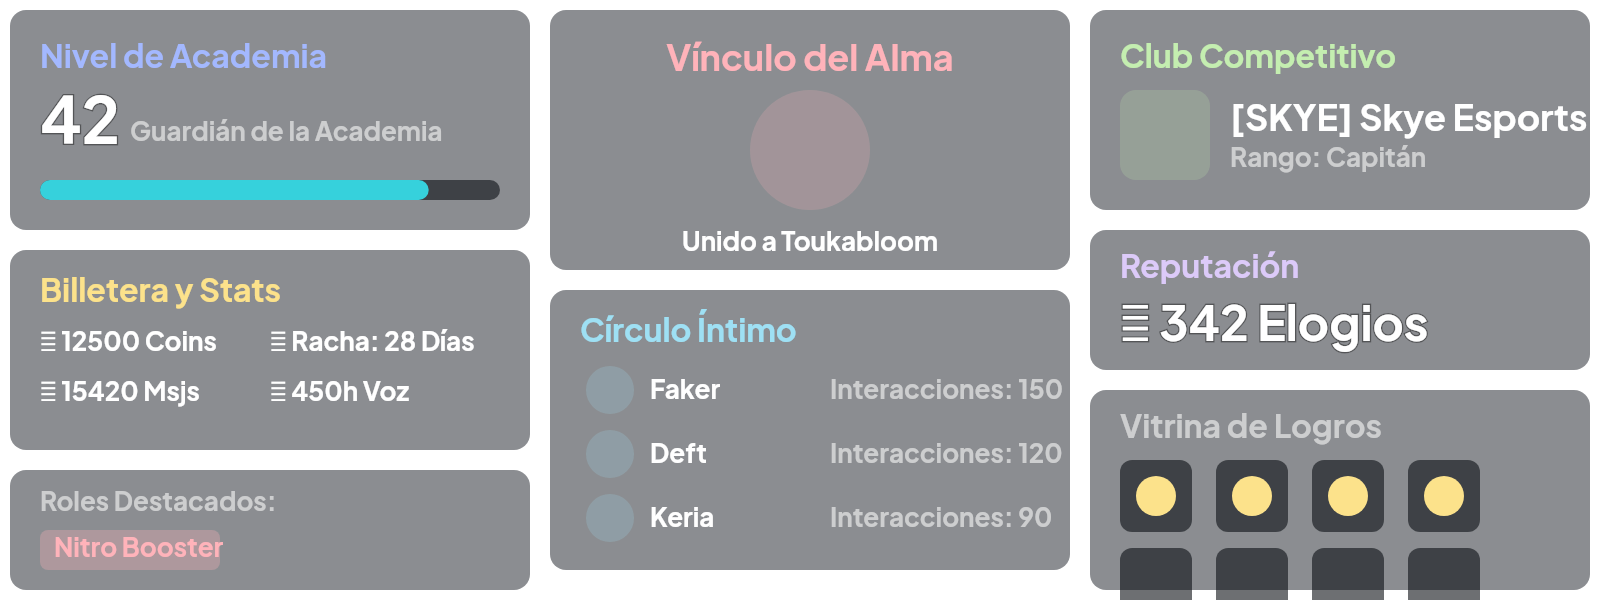
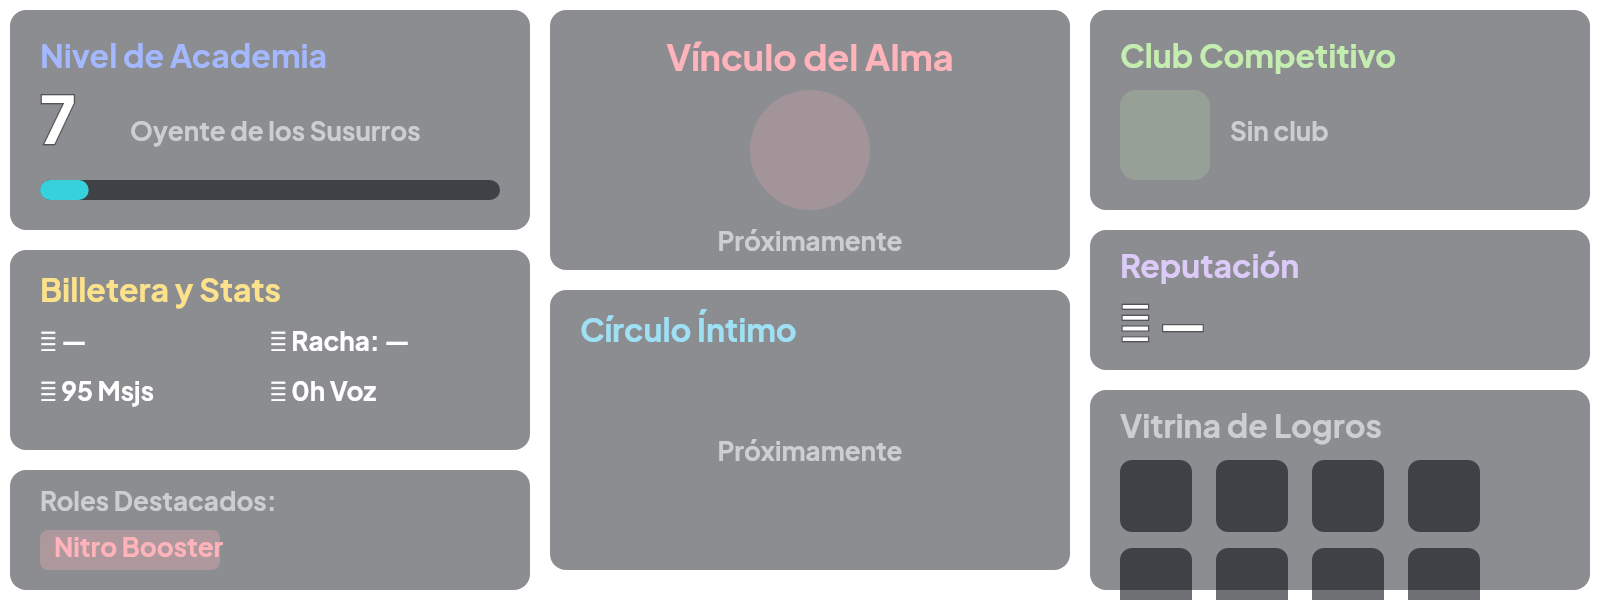
Incorporacion Nivel a tarjeta social

diff --git a/Modulos/Principales/Perfil/canvas_social.js b/Modulos/Principales/Perfil/canvas_social.js
@@ -22,27 +22,71 @@ function fillTextPro(ctx, text, x, y) {
     ctx.fillText(text, px(x), px(y));
 }
 
-const fakeData = {
-    nivel: 42,
-    rangoSocial: "Guardián de la Academia",
-    xpActual: 8450,
-    xpMeta: 10000,
-    racha: 28,
-    monedas: 12500,
-    mensajes: 15420,
-    horasVoz: 450,
-    reputacion: 342,
-    club: { nombre: 'Skye Esports', tag: 'SKYE', rol: 'Capitán' },
-    soulmate: { nombre: 'Toukabloom', fecha: '12/05/2025' },
-    amigos: [
-        { nombre: 'Faker' },
-        { nombre: 'Deft' },
-        { nombre: 'Keria' }
-    ],
-    insignias: [true, true, true, true, false, false, false, false]
-};
+// ─────────────────────────────────────────────────────────────────────────────
+// Helpers internos
+// ─────────────────────────────────────────────────────────────────────────────
+const RANGOS_DATA_SOCIAL = [
+    { lvl: 100, titulo: "Entidad Entre Mundos" },
+    { lvl: 95,  titulo: "Voz del Gran Carnero" },
+    { lvl: 90,  titulo: "Leyenda Vastaya" },
+    { lvl: 85,  titulo: "Maestro de los Dos Reinos" },
+    { lvl: 80,  titulo: "Caminante del Hogar" },
+    { lvl: 75,  titulo: "Guía de lo Invisible" },
+    { lvl: 70,  titulo: "Sabio de la Escarcha" },
+    { lvl: 65,  titulo: "Purificador de Almas" },
+    { lvl: 60,  titulo: "Heraldo de la Forja" },
+    { lvl: 55,  titulo: "Protector del Rebaño" },
+    { lvl: 50,  titulo: "Guardián de los Recuerdos" },
+    { lvl: 45,  titulo: "Saltador de Reinos" },
+    { lvl: 40,  titulo: "Tejedor de Vínculos" },
+    { lvl: 35,  titulo: "Viajero de la Nieve" },
+    { lvl: 30,  titulo: "Amigo de los Extraviados" },
+    { lvl: 25,  titulo: "Investigador de Runas" },
+    { lvl: 20,  titulo: "Vidente del Velo" },
+    { lvl: 15,  titulo: "Estudiante Bryni" },
+    { lvl: 10,  titulo: "Caminante de la Tundra" },
+    { lvl: 5,   titulo: "Oyente de los Susurros" },
+    { lvl: 0,   titulo: "Forastero de Aamu" }
+];
 
-async function generarBocetoSocial() {
+function obtenerRangoSocial(nivel) {
+    for (const r of RANGOS_DATA_SOCIAL) {
+        if (nivel >= r.lvl) return r.titulo;
+    }
+    return RANGOS_DATA_SOCIAL[RANGOS_DATA_SOCIAL.length - 1].titulo;
+}
+
+function calcularXPMetaSocial(nivel) {
+    const n = nivel < 1 ? 1 : nivel;
+    return Math.floor(100 * Math.pow(n, 1.5));
+}
+
+// Texto que se muestra cuando un campo todavía no está implementado
+const PENDIENTE = '—';
+
+// ─────────────────────────────────────────────────────────────────────────────
+// datos = objeto construido en perfil.js con los campos reales del usuario.
+// Los campos no implementados llegan como null y se muestran como placeholder.
+// ─────────────────────────────────────────────────────────────────────────────
+async function generarBocetoSocial(datos = {}) {
+    // Campos reales (disponibles en el schema)
+    const nivel    = datos.nivel    ?? 1;
+    const xpActual = datos.xpActual ?? 0;
+    const xpMeta   = datos.xpMeta   ?? calcularXPMetaSocial(nivel);
+    const mensajes = datos.mensajes ?? 0;
+    const horasVoz = datos.horasVoz ?? 0;
+
+    // Rango calculado igual que en el motor de XP
+    const rangoSocial = obtenerRangoSocial(nivel);
+
+    // Campos pendientes de implementar → placeholder
+    const racha      = datos.racha      ?? null;
+    const monedas    = datos.monedas    ?? null;
+    const reputacion = datos.reputacion ?? null;
+    const club       = datos.club       ?? null;
+    const soulmate   = datos.soulmate   ?? null;
+    const amigos     = datos.amigos     ?? [];
+    const insignias  = datos.insignias  ?? [];
     const baseWidth = 800;
     // 👇 ALTURA RECORTADA (-50px)
     const baseHeight = 300; 
@@ -87,11 +131,11 @@ async function generarBocetoSocial() {
 
     ctx.fillStyle = '#ffffff';
     ctx.font = `bold 32px "Plus Jakarta Sans"`;
-    fillTextPro(ctx, `${fakeData.nivel}`, col1X + 15, inicioCajasY + 40);
+    fillTextPro(ctx, `${nivel}`, col1X + 15, inicioCajasY + 40);
     
     ctx.font = fontPequena;
     ctx.fillStyle = COLOR_TEXTO_BASE;
-    ctx.fillText(fakeData.rangoSocial, px(col1X + 60), px(inicioCajasY + 55));
+    ctx.fillText(rangoSocial, px(col1X + 60), px(inicioCajasY + 55));
 
     const barraX = col1X + 15;
     const barraY = inicioCajasY + 85;
@@ -99,7 +143,7 @@ async function generarBocetoSocial() {
     ctx.fillStyle = 'rgba(12, 15, 20, 0.6)';
     ctx.beginPath(); ctx.roundRect(px(barraX), px(barraY), barraW, 10, 5); ctx.fill();
     
-    const progreso = fakeData.xpActual / fakeData.xpMeta;
+    const progreso = Math.min(xpActual / xpMeta, 1);
     ctx.fillStyle = '#36d1dc';
     ctx.beginPath(); ctx.roundRect(px(barraX), px(barraY), barraW * progreso, 10, 5); ctx.fill();
 
@@ -113,10 +157,10 @@ async function generarBocetoSocial() {
     ctx.fillText('Billetera y Stats', px(col1X + 15), px(actY + 12));
 
     ctx.fillStyle = '#ffffff'; ctx.font = fontPequena;
-    ctx.fillText(`🪙 ${fakeData.monedas} Coins`, px(col1X + 15), px(actY + 40));
-    ctx.fillText(`🔥 Racha: ${fakeData.racha} Días`, px(col1X + 130), px(actY + 40));
-    ctx.fillText(`💬 ${fakeData.mensajes} Msjs`, px(col1X + 15), px(actY + 65));
-    ctx.fillText(`🎙 ${fakeData.horasVoz}h Voz`, px(col1X + 130), px(actY + 65));
+    ctx.fillText(`🪙 ${monedas !== null ? monedas + ' Coins' : PENDIENTE}`,     px(col1X + 15),  px(actY + 40));
+    ctx.fillText(`🔥 Racha: ${racha !== null ? racha + ' Días' : PENDIENTE}`,   px(col1X + 130), px(actY + 40));
+    ctx.fillText(`💬 ${mensajes} Msjs`,                                          px(col1X + 15),  px(actY + 65));
+    ctx.fillText(`🎙 ${horasVoz}h Voz`,                                         px(col1X + 130), px(actY + 65));
 
     // 3. ROLES ESPECIALES
     const rolesY = actY + 100 + gap;
@@ -148,8 +192,12 @@ async function generarBocetoSocial() {
     ctx.fillStyle = 'rgba(255, 179, 186, 0.2)';
     ctx.beginPath(); ctx.arc(px(col2X + col1W/2), px(inicioCajasY + 70), 30, 0, Math.PI*2); ctx.fill();
 
-    ctx.fillStyle = '#ffffff'; ctx.font = fontPequena;
-    ctx.fillText(`Unido a ${fakeData.soulmate.nombre}`, px(col2X + col1W/2), px(inicioCajasY + 110));
+    ctx.fillStyle = soulmate ? '#ffffff' : COLOR_TEXTO_BASE;
+    ctx.font = fontPequena;
+    ctx.fillText(
+        soulmate ? `Unido a ${soulmate.nombre}` : 'Próximamente',
+        px(col2X + col1W/2), px(inicioCajasY + 110)
+    );
 
     // 5. CÍRCULO ÍNTIMO
     const amigosY = inicioCajasY + 130 + gap;
@@ -161,14 +209,24 @@ async function generarBocetoSocial() {
     ctx.textAlign = 'left';
     ctx.fillText('Círculo Íntimo', px(col2X + 15), px(amigosY + 12));
 
-    for(let i=0; i<3; i++) {
-        const yPos = amigosY + 40 + (i*32);
-        ctx.fillStyle = 'rgba(158, 224, 244, 0.2)';
-        ctx.beginPath(); ctx.arc(px(col2X + 30), px(yPos + 10), 12, 0, Math.PI*2); ctx.fill();
-        ctx.fillStyle = '#ffffff'; ctx.font = fontPequena;
-        ctx.fillText(fakeData.amigos[i].nombre, px(col2X + 50), px(yPos + 4));
+    if (amigos.length > 0) {
+        for(let i = 0; i < Math.min(amigos.length, 3); i++) {
+            const yPos = amigosY + 40 + (i*32);
+            ctx.fillStyle = 'rgba(158, 224, 244, 0.2)';
+            ctx.beginPath(); ctx.arc(px(col2X + 30), px(yPos + 10), 12, 0, Math.PI*2); ctx.fill();
+            ctx.fillStyle = '#ffffff'; ctx.font = fontPequena;
+            ctx.fillText(amigos[i].nombre, px(col2X + 50), px(yPos + 4));
+            ctx.fillStyle = COLOR_TEXTO_BASE;
+            if (amigos[i].interacciones !== undefined) {
+                ctx.fillText(`Interacciones: ${amigos[i].interacciones}`, px(col2X + 140), px(yPos + 4));
+            }
+        }
+    } else {
         ctx.fillStyle = COLOR_TEXTO_BASE;
-        ctx.fillText(`Interacciones: ${150 - i*30}`, px(col2X + 140), px(yPos + 4));
+        ctx.font = fontPequena;
+        ctx.textAlign = 'center';
+        ctx.fillText('Próximamente', px(col2X + col1W / 2), px(amigosY + 75));
+        ctx.textAlign = 'left';
     }
 
     // ==========================================
@@ -188,10 +246,15 @@ async function generarBocetoSocial() {
     ctx.fillStyle = 'rgba(196, 238, 176, 0.2)';
     ctx.beginPath(); ctx.roundRect(col3X + 15, inicioCajasY + 40, 45, 45, 8); ctx.fill();
 
-    ctx.fillStyle = '#ffffff'; ctx.font = `bold 18px "Plus Jakarta Sans"`;
-    ctx.fillText(`[${fakeData.club.tag}] ${fakeData.club.nombre}`, px(col3X + 70), px(inicioCajasY + 45));
-    ctx.fillStyle = COLOR_TEXTO_BASE; ctx.font = fontPequena;
-    ctx.fillText(`Rango: ${fakeData.club.rol}`, px(col3X + 70), px(inicioCajasY + 68));
+    if (club) {
+        ctx.fillStyle = '#ffffff'; ctx.font = `bold 18px "Plus Jakarta Sans"`;
+        ctx.fillText(`[${club.tag}] ${club.nombre}`, px(col3X + 70), px(inicioCajasY + 45));
+        ctx.fillStyle = COLOR_TEXTO_BASE; ctx.font = fontPequena;
+        ctx.fillText(`Rango: ${club.rol}`, px(col3X + 70), px(inicioCajasY + 68));
+    } else {
+        ctx.fillStyle = COLOR_TEXTO_BASE; ctx.font = fontPequena;
+        ctx.fillText('Sin club', px(col3X + 70), px(inicioCajasY + 55));
+    }
 
     // 7. REPUTACIÓN
     const repY = inicioCajasY + 100 + gap;
@@ -203,7 +266,11 @@ async function generarBocetoSocial() {
     ctx.fillText('Reputación', px(col3X + 15), px(repY + 10));
 
     ctx.fillStyle = '#ffffff'; ctx.font = `bold 24px "Plus Jakarta Sans"`;
-    fillTextPro(ctx, `🌟 ${fakeData.reputacion} Elogios`, col3X + 15, repY + 35);
+    fillTextPro(
+        ctx,
+        reputacion !== null ? `🌟 ${reputacion} Elogios` : `🌟 ${PENDIENTE}`,
+        col3X + 15, repY + 35
+    );
 
     // 8. INSIGNIAS
     const insY = repY + 70 + gap;
@@ -215,16 +282,16 @@ async function generarBocetoSocial() {
     ctx.fillText('Vitrina de Logros', px(col3X + 15), px(insY + 10));
 
     const sizeIns = 36;
-    for(let i=0; i<8; i++) {
+    for(let i = 0; i < 8; i++) {
         const fila = Math.floor(i / 4);
-        const col = i % 4;
+        const col  = i % 4;
         const xPos = col3X + 15 + (col * (sizeIns + 12));
         const yPos = insY + 35 + (fila * (sizeIns + 8));
 
         ctx.fillStyle = 'rgba(12, 15, 20, 0.6)';
         ctx.beginPath(); ctx.roundRect(xPos, yPos, sizeIns, sizeIns, 6); ctx.fill();
 
-        if(fakeData.insignias[i]) {
+        if (insignias[i]) {
             ctx.fillStyle = '#fce28b';
             ctx.beginPath(); ctx.arc(xPos + sizeIns/2, yPos + sizeIns/2, 10, 0, Math.PI*2); ctx.fill();
         }

diff --git a/Modulos/Principales/Perfil/perfil.js b/Modulos/Principales/Perfil/perfil.js
@@ -112,8 +112,24 @@ async function renderizarYGuardarPerfil(targetUser) {
             await fs.writeFile(path.join(carpetaPath, arch.img), bocetoBuffer);
         }
 
-        // 👇 Renderizamos el perfil Social en caché
-        const bocetoSocialBuffer = await generarBocetoSocial();
+        // Construimos el objeto de datos sociales con los campos reales del usuario.
+        // Los campos no implementados se omiten (el canvas los muestra como placeholder).
+        const datosSocial = {
+            nivel:    targetUser.Social?.Nivel        || 1,
+            xpActual: targetUser.Social?.XP           || 0,
+            mensajes: targetUser.Social?.Mensajes      || 0,
+            horasVoz: Math.floor((targetUser.Social?.Minutos_Voz || 0) / 60),
+            // Campos pendientes de implementar — se pasan como null
+            racha:      null,
+            monedas:    null,
+            reputacion: null,
+            club:       null,
+            soulmate:   null,
+            amigos:     [],
+            insignias:  []
+        };
+
+        const bocetoSocialBuffer = await generarBocetoSocial(datosSocial);
         await fs.writeFile(path.join(carpetaPath, 'stats_social.png'), bocetoSocialBuffer);
 
         return true;
